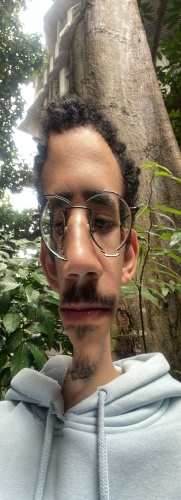
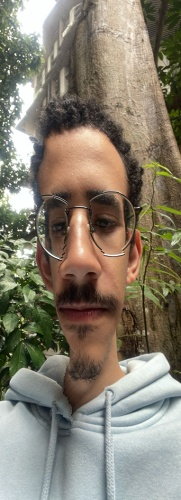
fix: multiop agora funciona + imagens pro slide

diff --git a/Multi Operator/multiop.py b/Multi Operator/multiop.py
@@ -74,80 +74,70 @@ def aumentar_seamcarving(image, num_pixels):
     return nova_imagem
 
 
-#calcula a distancia entre um bloco de pixels
-def calc_patch_dist(img_s, img_t, y, x_s, x_t, raio):
-    dist = 0.0
-    # percorre o quadrado ao redor do pixel
-    for dy in range(-raio, raio + 1):
-        for dx in range(-raio, raio + 1):
-            for c in range(3):
-                val_s = img_s[y + dy, x_s + dx, c]
-                val_t = img_t[y + dy, x_t + dx, c]
-                dist += abs(val_s - val_t)
-    return dist
 
+# METODOLOGIA DO ARTIGO (DONG ET AL. 2012)
+# Substitui o (MUITO) LENTO A-DTW de Rubinstein por Energia + Cores Dominantes (DCD)
 
-def asymmetric_dtw_patch(img_s, img_t, y, raio):
-    # desconta a borda artificial para saber o tamanho real do loop
-    len_s = img_s.shape[1] - (2 * raio)
-    len_t = img_t.shape[1] - (2 * raio)
+# extrai o dominant color descriptor usando clustering k-means
+def extrair_dcd(imagem, k=8):
+    # reduz a imagem drasticamente para rodar o k-means muito rapido
+    img_reduzida = cv2.resize(imagem, (100, 100))
+    pixels = np.float32(img_reduzida.reshape(-1, 3))
     
-    # matriz de prog dinamica com valores infinitos
-    M = np.full((len_s + 1, len_t + 1), np.inf)
+    # executa o k-means do OpenCV para achar as K cores principais
+    criteria = (cv2.TERM_CRITERIA_EPS + cv2.TERM_CRITERIA_MAX_ITER, 10, 1.0)
+    _, labels, centers = cv2.kmeans(pixels, k, None, criteria, 10, cv2.KMEANS_RANDOM_CENTERS)
     
-    M[0, 0] = 0
-    M[0, 1:] = 0
+    # calcula a porcentagem (peso) de cada cor na imagem
+    counts = np.bincount(labels.flatten())
+    porcentagens = counts / float(counts.sum())
     
-    # laço principal do A-DTW
-    for i in range(1, len_s + 1):
-        for j in range(1, len_t + 1):
-            px_s = i - 1 + raio
-            px_t = j - 1 + raio
-            
-            d = calc_patch_dist(img_s, img_t, y, px_s, px_t, raio)
-            
-            M[i, j] = min(
-                M[i-1, j-1] + d,
-                M[i, j-1],
-                M[i-1, j] + d
-            )
-            
-    return M[len_s, len_t]
+    return centers, porcentagens
 
 
-#bi-directional warping do artigo (versao patches)
-def calcular_bdw(img_original, img_alvo):
+# calcula a perda de informacao visual baseada na cor e seu peso
+def calcular_diferenca_dcd(dcd1, dcd2):
+    centers1, perc1 = dcd1
+    centers2, perc2 = dcd2
+    
+    # ordena os clusters do maior pro menor pra comparar de forma justa
+    idx1 = np.argsort(perc1)[::-1]
+    idx2 = np.argsort(perc2)[::-1]
+    
+    diferenca = 0.0
+    for i, j in zip(idx1, idx2):
+        # penaliza se a cor mudou ou se a quantidade daquela cor na foto mudou
+        dist_cor = np.linalg.norm(centers1[i] - centers2[j])
+        dist_perc = abs(perc1[i] - perc2[j])
+        diferenca += (dist_cor + (dist_perc * 255.0))
+        
+    return diferenca
+
+
+# avaliacao unificada do artigo: Energia + DCD
+def calcular_custo(img_original, img_alvo):
     if img_original.shape == img_alvo.shape:
         return 0.0
         
-    altura = img_original.shape[0]
+    # Energia de Sobel (local)
+    # se o seam carving deformar demais, cria picos de energia
+    # se o scale borrar demais, derruba a media da energia
+    energia_orig = computeEnergySobel(img_original)
+    energia_alvo = computeEnergySobel(img_alvo)
     
-    # define o tamanho do patch (raio 3 = patch de 7x7 pixels)
-    raio_patch = 3 
+    diff_energia_media = abs(np.mean(energia_orig) - np.mean(energia_alvo))
+    diff_energia_max = abs(np.max(energia_orig) - np.max(energia_alvo))
+    custo_energia = diff_energia_media + diff_energia_max
     
-    # adiciona uma borda replicada para o patch nao sair da imagem
-    img_orig_pad = cv2.copyMakeBorder(img_original, raio_patch, raio_patch, raio_patch, raio_patch, cv2.BORDER_REPLICATE).astype(np.float32)
-    img_alvo_pad = cv2.copyMakeBorder(img_alvo, raio_patch, raio_patch, raio_patch, raio_patch, cv2.BORDER_REPLICATE).astype(np.float32)
+    # DCD (global)
+    # ex: ajuda o algoritmo a nao comer todo o azul do ceu (preservar a composicao)
+    dcd_orig = extrair_dcd(img_original)
+    dcd_alvo = extrair_dcd(img_alvo)
+    custo_dcd = calcular_diferenca_dcd(dcd_orig, dcd_alvo)
     
-    max_ST = 0.0
-    max_TS = 0.0
+    # o artigo aplica o peso omega_dcd (0.2 a 0.5) para misturar as metricas
+    custo_final = custo_energia + (custo_dcd * 0.2)
     
-    for i in range(altura):
-        # a coordenada Y real na imagem com padding é i + raio_patch
-        y_real = i + raio_patch
-        
-        # erro original -> alvo
-        erro_st = asymmetric_dtw_patch(img_orig_pad, img_alvo_pad, y_real, raio_patch)
-        if erro_st > max_ST:
-            max_ST = erro_st
-            
-        # erro alvo -> original
-        erro_ts = asymmetric_dtw_patch(img_alvo_pad, img_orig_pad, y_real, raio_patch)
-        if erro_ts > max_TS:
-            max_TS = erro_ts
-            
-    #custo final eh a soma dos 2 erros
-    custo_final = max_ST + max_TS
     return custo_final
 
 
@@ -173,7 +163,7 @@ def otimizar_dimensao(img_original, pixels_remover, step_size=10):
             img_temp = reduzir_crop(img_temp, crop_px)
             img_temp = reduzir_escala(img_temp, scale_px)
             
-            custo = calcular_bdw(img_original, img_temp)
+            custo = calcular_custo(img_original, img_temp)
             
             if custo < melhor_custo:
                 melhor_custo = custo
@@ -182,8 +172,6 @@ def otimizar_dimensao(img_original, pixels_remover, step_size=10):
 
     print(f"Vencedor: Seam={melhor_caminho[0]}px, Crop={melhor_caminho[1]}px, Scale={melhor_caminho[2]}px | Custo: {melhor_custo:.2f}")
     return melhor_imagem
-
-
 
 
 #calcula os melhores caminhos para aumentar a imagem (sem cropping)
@@ -203,7 +191,7 @@ def otimizar_aumento_dimensao(img_original, pixels_adicionar, step_size=10):
         img_temp = aumentar_seamcarving(img_original, seam_px)
         img_temp = aumentar_escala(img_temp, scale_px)
         
-        custo = calcular_bdw(img_original, img_temp)
+        custo = calcular_custo(img_original, img_temp)
         
         if custo < melhor_custo:
             melhor_custo = custo
@@ -253,12 +241,14 @@ def multi_operator_regular_path(img_original, largura_alvo, altura_alvo, step_si
 
 
 if __name__ == "__main__":
-    nomeImg = "ellie.jpeg"
-    pasta_multiop = os.path.join(pasta_raiz, 'Multi Operator')
-    imgOriginal = cv2.imread(f"Multi Operator/ellie/{nomeImg}")
+    # coloque o nome do arquivo da imagem e a pasta onde ela está
+    nomeImg = "pedra.jpg"
+    pastaImg = "pedra"
+    
+    imgOriginal = cv2.imread(f"Multi Operator/{pastaImg}/{nomeImg}")
     
     if imgOriginal is None:
-        print(f"Erro: Não foi possível encontrar '{nomeImg}'")
+        print(f"Erro: Não foi possível encontrar {nomeImg}")
     else:
         # reduzir a imagem para os testes rodarem mais rápido
         imgOriginal = redimensionarImagem(imgOriginal, limite=500)
@@ -283,19 +273,15 @@ if __name__ == "__main__":
             (larguraOriginal - 50, int(alturaOriginal * 1.3), f"{nomeImg}_misto.jpg")
         ]
 
-        # criar a pasta de saída do MultiOp se não existir
-        pasta_saida = os.path.join(pasta_atual, "output")
-        os.makedirs(pasta_saida, exist_ok=True)
-
         for idx, (larguraAlvo, alturaAlvo, nomeSaida) in enumerate(experimentos, 1):
             print(f"\n======================================")
             print(f"RODANDO EXPERIMENTO {idx} (Alvo: {larguraAlvo}x{alturaAlvo})")
             print(f"======================================")
             
-            #se o step size selecionado for muito pequeno em relacao ao numero de pixels pra remover/aumentar, o codigo vai demorar MUITO
+            
             output = multi_operator_regular_path(imgOriginal, larguraAlvo, alturaAlvo, step_size=20)
 
-            
-            pathSaida = f"Multi Operator/output/{nomeSaida}"
+            # salva na mesma pasta da imagem original
+            pathSaida = f"Multi Operator/{pastaImg}/{nomeSaida}"
             cv2.imwrite(pathSaida, output)
             print(f"\n[!] Salvo: {pathSaida}")

diff --git a/Seam Carving/seamcarving.py b/Seam Carving/seamcarving.py
@@ -286,8 +286,8 @@ def redimensionarImagem(img, limite=1000):
 
 if __name__ == "__main__":
     # coloque o nome do arquivo da imagem e o diretório abaixo
-    nomeImg = "ellie.jpeg"
-    pastaImg = "ellie"
+    nomeImg = "pedra.jpg"
+    pastaImg = "pedra"
     imgOriginal = cv2.imread(f"Seam Carving/{pastaImg}/{nomeImg}")
     
     if imgOriginal is None:
@@ -300,10 +300,20 @@ if __name__ == "__main__":
         larguraOriginal, alturaOriginal = imgOriginal.shape[1], imgOriginal.shape[0]
     
         experimentos = [
-            (larguraOriginal, 300, f"{nomeImg}_panoramica_altura_reduzida.jpg"),
-            (200, alturaOriginal, f"{nomeImg}squish_largura_reduzida.jpg"),
-            (400, alturaOriginal, f"{nomeImg}_expansao_largura_inserida.jpg"),
-            (larguraOriginal ,700, f"{nomeImg}_expansao_altura_inserida.jpg"),
+            # reduzir 100 pixels de largura
+            (larguraOriginal - 100, alturaOriginal, f"{nomeImg}_reduz_largura.jpg"),
+
+            # reduzir 100 pixels de altura
+            (larguraOriginal, alturaOriginal - 100, f"{nomeImg}_reduz_altura.jpg"),
+
+            # expandir 50% da largura
+            (int(larguraOriginal * 1.5), alturaOriginal, f"{nomeImg}_expande_largura.jpg"),
+
+            # expandir 50% da altura
+            (larguraOriginal, int(alturaOriginal * 1.5), f"{nomeImg}_expande_altura.jpg"),
+            
+            # reduz a largura por 50px e aumenta a altura por 30%
+            (larguraOriginal - 50, int(alturaOriginal * 1.3), f"{nomeImg}_misto.jpg")
         ]
 
         for idx, (larguraAlvo, alturaAlvo, nomeSaida) in enumerate(experimentos, 1):